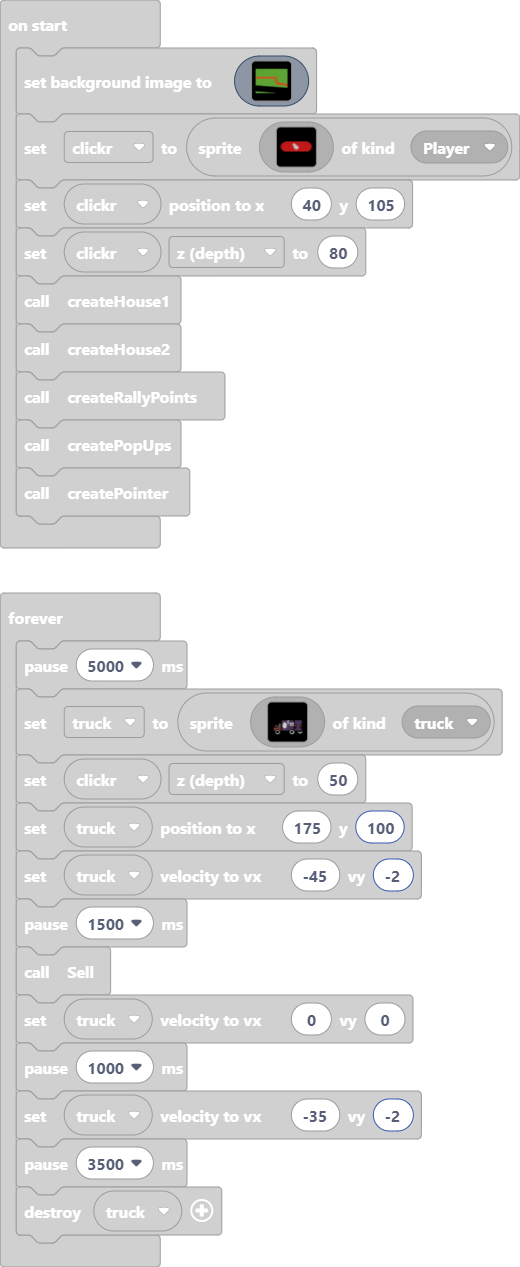
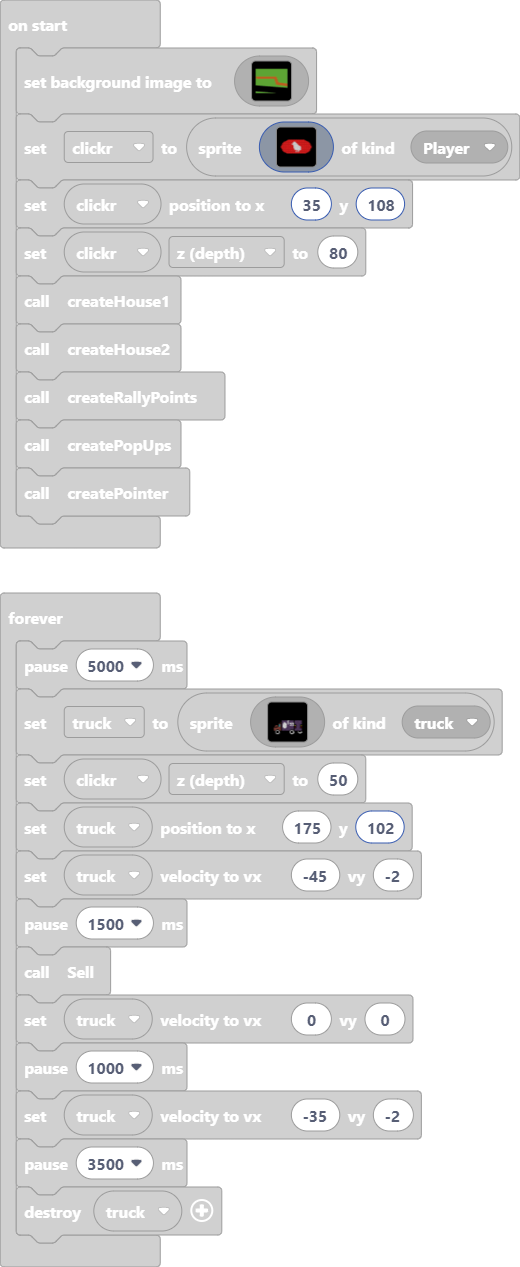
I made the clicker smaller and repositioned it.

diff --git a/main.ts b/main.ts
@@ -783,32 +783,30 @@ scene.setBackgroundImage(img`
[1 lines of base64/hex data omitted]
     `)
 clickr = sprites.create(img`
-    ..........ffffffffffffffffffffffffffffffffffffffffffffffffff..........
-    .........ff222222222222222222222222222222222222222222222222ff.........
-    .......ff2222222222222222222222222222222222222222222222222222ff.......
-    .....ff22222222222222222222222222222222222222222222222222222222ff.....
-    ....f222222222222222222222222222222222222222222222222222222222222f....
-    ...f22222222222222222222222221112222222222222222222222222222222222f...
-    ..f2222222222222222222222222111112222222222222222222222222222222222f..
-    ..f2222222222222222222222222111111222222222222222222222222222222222f..
-    .f222222222222222222222222111111111222222222222222222222222222222222f.
-    .f222222222222222222222222221111111122222222222222222222222222222222f.
[5 lines of base64/hex data omitted]
-    .f222222222222222222222222222211111111112222222222222222222222222222f.
-    .f222222222222222222222222222221111111112222222222222222222222222222f.
-    ..f2222222222222222222222222222221211122222222222222222222222222222f..
-    ..f2222222222222222222222222222221221222222222222222222222222222222f..
-    ...f22222222222222222222222222221121122222222222222222222222222222f...
-    ....f222222222222222222222222222222222222222222222222222222222222f....
-    .....ff22222222222222222222222222222222222222222222222222222222ff.....
-    .......ff2222222222222222222222222222222222222222222222222222ff.......
-    .........ffffffffffffffffffffffffffffffffffffffffffffffffffff.........
+    ..........ffffffffffffffffffffffffff..........
+    .........ff222222222222222222222222ff.........
+    .......ff2222222222222222222222222222ff.......
+    .....ff22222222222222222222222222222222ff.....
+    ....f222222222222221112222222222222222222f....
+    ...f22222222222222111112222222222222222222f...
+    ..f2222222222222221111112222222222222222222f..
+    ..f2222222222222111111111222222222222222222f..
+    .f222222222222222211111111222222222222222222f.
+    .f222222222222222221111111122222222222222222f.
+    f22222222222222222211111111112222222222222222f
+    f22222222222222222211111111111222222222222222f
+    f22222222222222222211111111111222222222222222f
+    .f222222222222222222111111111122222222222222f.
+    .f222222222222222222111111111122222222222222f.
+    ..f2222222222222222221111111112222222222222f..
+    ..f2222222222222222222212111222222222222222f..
+    ...f22222222222222222221221222222222222222f...
+    ....f222222222222222221121122222222222222f....
+    .....ff22222222222222222222222222222222ff.....
+    .......ff2222222222222222222222222222ff.......
+    .........ffffffffffffffffffffffffffff.........
     `, SpriteKind.Player)
-clickr.setPosition(40, 105)
+clickr.setPosition(35, 108)
 clickr.z = 80
 createHouse1()
 createHouse2()
@@ -850,7 +848,7 @@ forever(function () {
         ......111...............111.............
         `, SpriteKind.truck)
     clickr.z = 50
-    truck.setPosition(175, 100)
+    truck.setPosition(175, 102)
     truck.setVelocity(-45, -2)
     pause(1500)
     Sell()
